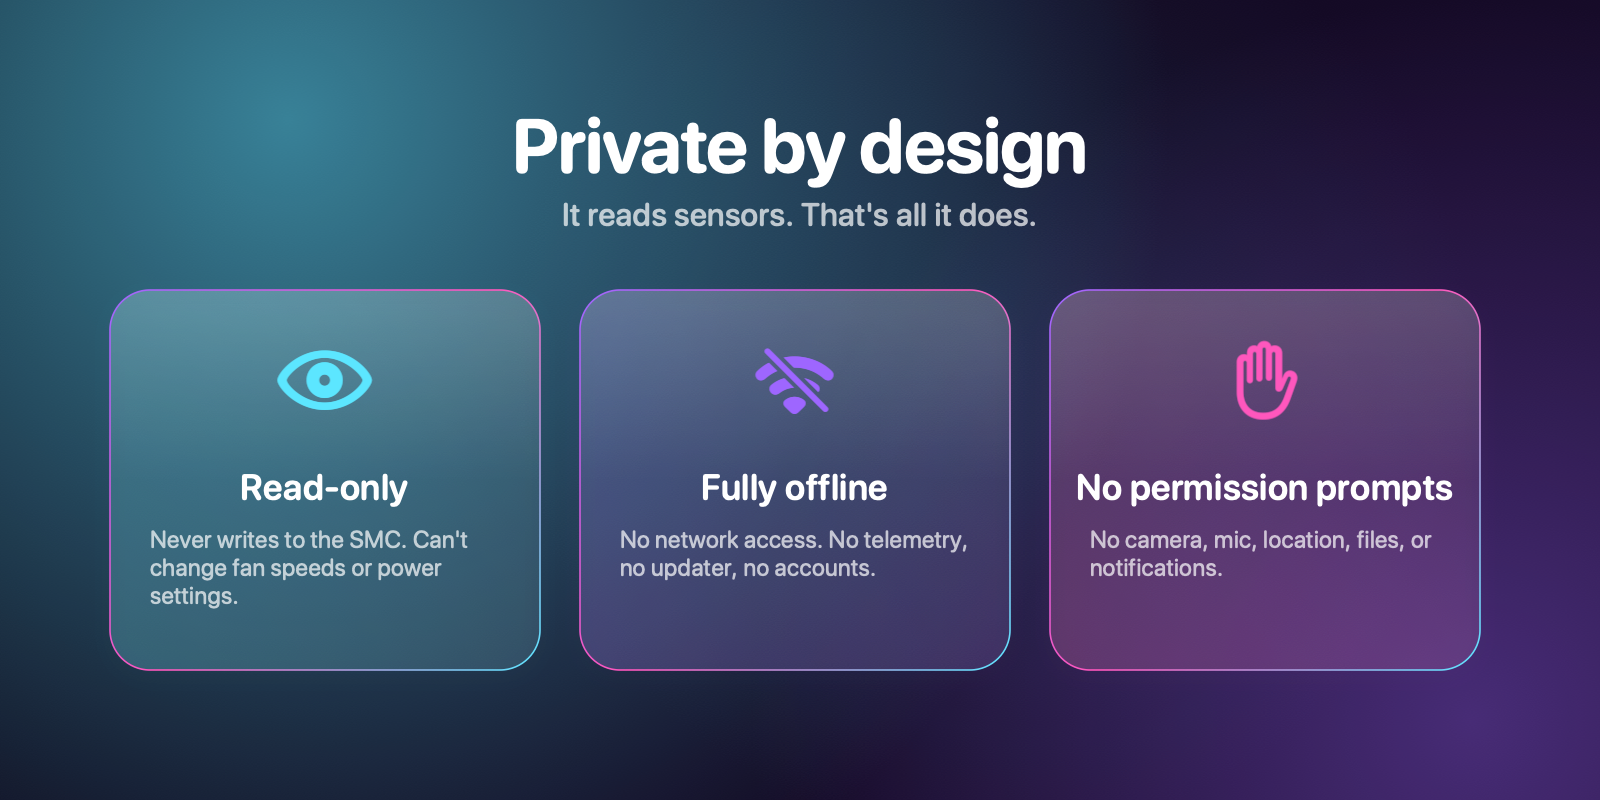
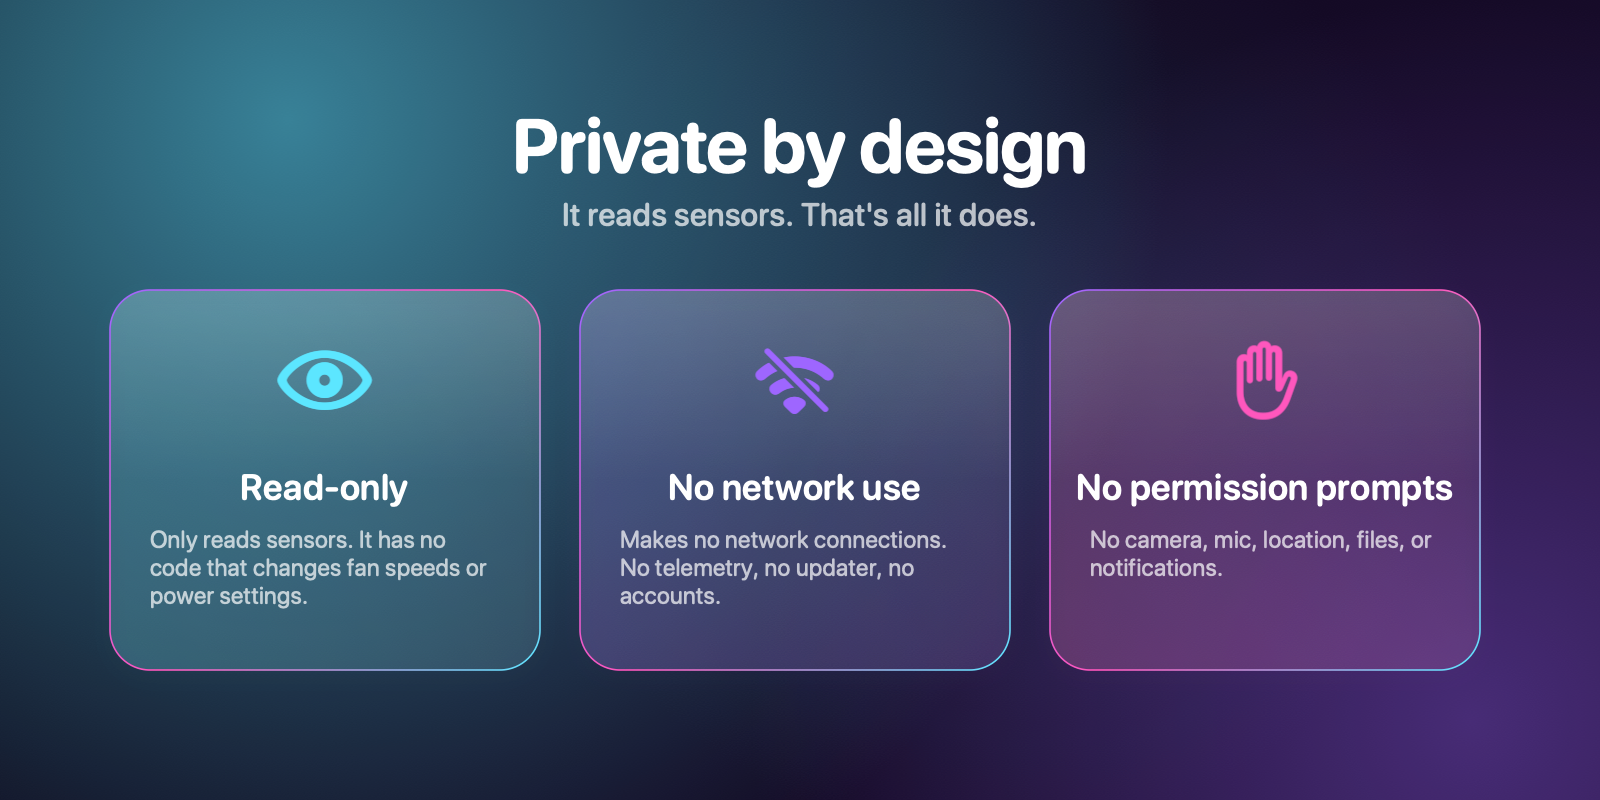
Correct install and privacy wording: Open Anyway steps, no-network-use claim

Changed region(s): [[0.0938, 0.6562, 0.3125, 0.7812], [0.375, 0.6562, 0.5938, 0.7812], [0.4062, 0.5938, 0.5938, 0.625]]

diff --git a/docs/index.html b/docs/index.html
@@ -50,11 +50,11 @@
         { "@type": "Question", "name": "Does HexTherm work on Apple Silicon (M1, M2, M3, M4) and Intel Macs?",
           "acceptedAnswer": { "@type": "Answer", "text": "Yes. It is a universal app and discovers your Mac's sensors at launch instead of using a fixed list. It was developed and tested on an M4 Max MacBook Pro; if a sensor looks wrong on your model, please open an issue." } },
         { "@type": "Question", "name": "Can HexTherm control my fan speed?",
-          "acceptedAnswer": { "@type": "Answer", "text": "No. HexTherm is read-only by design. It never writes to the System Management Controller, so it cannot change fan speeds or power settings." } },
+          "acceptedAnswer": { "@type": "Answer", "text": "No. HexTherm is read-only. It only reads sensors and contains no code that writes to the System Management Controller, so it does not change fan speeds or power settings." } },
         { "@type": "Question", "name": "Is HexTherm safe? Does it collect data?",
-          "acceptedAnswer": { "@type": "Answer", "text": "HexTherm has no network entitlement, so it cannot connect to the internet. There is no telemetry, updater or account. It requests no camera, microphone, location, files or notification permissions." } },
+          "acceptedAnswer": { "@type": "Answer", "text": "HexTherm makes no network connections and has no telemetry, updater or account. It is not sandboxed, so macOS would not block it from connecting; a free firewall such as LuLu or Little Snitch will show it never does. It requests no camera, microphone, location, files or notification permissions." } },
         { "@type": "Question", "name": "Why does macOS say HexTherm can't be opened?",
-          "acceptedAnswer": { "@type": "Answer", "text": "HexTherm is not yet notarized by Apple, so Gatekeeper warns on first launch. Right-click the app and choose Open, or run: xattr -dr com.apple.quarantine /Applications/HexTherm.app" } },
+          "acceptedAnswer": { "@type": "Answer", "text": "HexTherm is not yet notarized by Apple, so macOS blocks it the first time. Open it once, then go to System Settings, Privacy & Security, scroll to Security and click Open Anyway next to HexTherm. Or run: xattr -dr com.apple.quarantine /Applications/HexTherm.app" } },
         { "@type": "Question", "name": "Does HexTherm work on a fanless MacBook Air?",
           "acceptedAnswer": { "@type": "Answer", "text": "Yes. It detects that there are no fans and shows temperatures only." } },
         { "@type": "Question", "name": "Is HexTherm open source?",
@@ -131,7 +131,7 @@
       <div class="card"><img src="assets/feature-menubar.png" alt="Menu bar icon that changes colour from cyan to red as the Mac heats up" loading="lazy" width="1600" height="800"><div class="t"><h3>Lives in your menu bar</h3><p>A tiny icon and number that shifts from cyan to violet to magenta to red as your Mac heats up. Sits right beside the notch on MacBook Pro.</p></div></div>
       <div class="card"><img src="assets/feature-glass.png" alt="Liquid Glass panel showing CPU and GPU temperature and fan speeds" loading="lazy" width="1600" height="800"><div class="t"><h3>A Liquid Glass panel</h3><p>Click for CPU and GPU average and peak, live fan RPM and a one-line sensor summary, in a panel that matches macOS 26.</p></div></div>
       <div class="card"><img src="assets/feature-alerts.png" alt="Heat alert card dropping out of the menu bar icon" loading="lazy" width="1600" height="800"><div class="t"><h3>Alerts that drop from the icon</h3><p>When your Mac runs hot, a small card appears right under the icon. Once per event, never spammy, with one-tap snooze.</p></div></div>
-      <div class="card"><img src="assets/feature-private.png" alt="Read-only, fully offline, no permission prompts" loading="lazy" width="1600" height="800"><div class="t"><h3>Private by design</h3><p>Read-only sensor access, no network entitlement, no telemetry, no permission prompts. It reads temperatures and that's all.</p></div></div>
+      <div class="card"><img src="assets/feature-private.png" alt="Read-only, fully offline, no permission prompts" loading="lazy" width="1600" height="800"><div class="t"><h3>Private by design</h3><p>It only reads sensors. No network connections, no telemetry, no permission prompts. It reads temperatures and that's all.</p></div></div>
     </div>
     <p style="color:var(--muted);margin-top:22px">Also: °C/°F, adjustable refresh rate, your own warm / hot / critical thresholds, launch at login, an optional hover widget that hugs the notch, and graceful handling of fanless MacBook Air models.</p>
   </section>
@@ -141,7 +141,7 @@
     <ol class="steps">
       <li><a href="https://github.com/001Hex/HexTherm-Releases/releases/latest">Download the latest <code>HexTherm-x.y.z.dmg</code></a> and open it.</li>
       <li>Drag <strong>HexTherm</strong> onto <strong>Applications</strong>, then open it. A thermometer appears in your menu bar.</li>
-      <li>First launch: HexTherm isn't notarized by Apple yet, so macOS may warn. Right-click the app → <strong>Open</strong> → <strong>Open</strong>, or run:
+      <li>First launch: HexTherm isn't notarized by Apple yet, so macOS blocks it the first time. Open it once, then go to <strong>System Settings → Privacy &amp; Security</strong>, scroll to <strong>Security</strong> and click <strong>Open Anyway</strong> next to HexTherm. Or run one Terminal command:
         <pre>xattr -dr com.apple.quarantine /Applications/HexTherm.app</pre></li>
     </ol>
     <p style="color:var(--muted)">Prefer Homebrew? <code>brew install --cask 001hex/tap/hextherm</code></p>
@@ -150,9 +150,9 @@
   <section id="faq">
     <h2>Questions</h2>
     <details><summary>Does it work on M1, M2, M3, M4 and Intel Macs?</summary><p>Yes. It's a universal app and discovers your Mac's sensors at launch instead of relying on a fixed list. It was developed and tested on an M4 Max MacBook Pro; if a reading looks off on your model, please <a href="https://github.com/001Hex/HexTherm-Releases/issues">open an issue</a> with your Mac model.</p></details>
-    <details><summary>Can it control my fan speed?</summary><p>No. It's read-only by design. It never writes to the System Management Controller, so it can't change fan speeds or power settings.</p></details>
-    <details><summary>Is it safe? Does it collect any data?</summary><p>No data is collected. HexTherm has no network entitlement, so it can't connect to the internet at all. There's no telemetry, no updater and no account, and it asks for no camera, microphone, location, files or notification permissions.</p></details>
-    <details><summary>Why does macOS say it can't be opened?</summary><p>HexTherm isn't notarized by Apple yet (that requires a paid developer account), so Gatekeeper shows a warning on first launch. Right-click → Open, or run the <code>xattr</code> command above. You can verify your download against the SHA-256 on the release page.</p></details>
+    <details><summary>Can it control my fan speed?</summary><p>No. It's read-only: it only reads sensors and has no code that changes fan speeds or power settings.</p></details>
+    <details><summary>Is it safe? Does it collect any data?</summary><p>No data is collected. HexTherm makes no network connections and has no telemetry, no updater and no account. It isn't sandboxed, so macOS wouldn't stop it from connecting if it tried; a free firewall like LuLu or Little Snitch will confirm it never does. It asks for no camera, microphone, location, files or notification permissions.</p></details>
+    <details><summary>Why does macOS say it can't be opened?</summary><p>HexTherm isn't notarized by Apple yet (that requires a paid developer account), so macOS blocks it the first time. Use System Settings → Privacy &amp; Security → Open Anyway, or run the <code>xattr</code> command above. You can verify your download against the SHA-256 on the release page.</p></details>
     <details><summary>How is it different from iStat Menus, TG Pro or Macs Fan Control?</summary><p>Those are excellent and do more, including fan control and dozens of sensors. HexTherm deliberately does less: temperature, fan speed and heat warnings in one quiet menu bar item, free, offline and read-only.</p></details>
     <details><summary>How accurate are the temperatures?</summary><p>HexTherm shows what your Mac's System Management Controller reports, the same source other Mac monitors use. It filters out placeholder and non-temperature values, and shows average and peak per category, since different sensors sit in different places on the chip.</p></details>
     <details><summary>Does it work on a fanless MacBook Air?</summary><p>Yes. It detects there are no fans and shows temperatures only.</p></details>

diff --git a/README.md b/README.md
@@ -30,7 +30,7 @@
 | <img src="docs/assets/feature-menubar.png" width="420" alt="Menu bar icon that changes colour with temperature"> | **Lives in your menu bar.** A tiny icon and number that shifts from cyan to violet to magenta to red as your Mac heats up. Sits right beside the notch on MacBook Pro. |
 | <img src="docs/assets/feature-glass.png" width="420" alt="Liquid Glass panel with CPU, GPU and fan data"> | **A Liquid Glass panel.** Click for CPU and GPU average and peak, live fan RPM and a one-line sensor summary, styled to match macOS 26. |
 | <img src="docs/assets/feature-alerts.png" width="420" alt="Heat alert dropping out of the menu bar icon"> | **Alerts that drop from the icon.** A small glass card appears right under the icon when your Mac runs hot. Once per event, never spammy, with one-tap snooze. |
-| <img src="docs/assets/feature-private.png" width="420" alt="Read-only, offline, no permissions"> | **Private by design.** Read-only sensor access, no network entitlement, no telemetry, no permission prompts. |
+| <img src="docs/assets/feature-private.png" width="420" alt="Read-only, offline, no permissions"> | **Private by design.** It only reads sensors. It makes no network connections and has no telemetry, updater, accounts or permission prompts. |
 
 Also: °C / °F, adjustable refresh rate, your own warm / hot / critical thresholds, launch at login, an optional hover widget that hugs the notch, and graceful handling of fanless MacBook Air models.
 
@@ -40,7 +40,7 @@ Also: °C / °F, adjustable refresh rate, your own warm / hot / critical thresho
 
 1. [Download the latest `HexTherm-x.y.z.dmg`](https://github.com/001Hex/HexTherm-Releases/releases/latest) and open it.
 2. Drag **HexTherm** onto **Applications**, then open it. A thermometer icon appears in your menu bar.
-3. **First launch:** HexTherm isn't notarized by Apple yet, so macOS may say it can't be opened. Right-click the app → **Open** → **Open**, or run:
+3. **First launch:** HexTherm isn't notarized by Apple yet, so macOS blocks it the first time. Open it once, then go to **System Settings → Privacy & Security**, scroll to **Security**, and click **Open Anyway** next to HexTherm (confirm with your password or Touch ID). Or skip that with one Terminal command:
 
 ```bash
 xattr -dr com.apple.quarantine /Applications/HexTherm.app
@@ -62,8 +62,8 @@ shasum -a 256 ~/Downloads/HexTherm-1.0.0.dmg
 
 ## Privacy and security
 
-- **Read-only.** HexTherm only reads sensors from the System Management Controller. It never writes to it and cannot change fan speeds or power settings.
-- **Offline.** No network entitlement, no connections, no telemetry, no updater, no accounts.
+- **Read-only.** HexTherm only reads sensors from the System Management Controller. It contains no code that writes to it, so it doesn't change fan speeds or power settings.
+- **No network use.** HexTherm makes no network connections and has no telemetry, updater or accounts. It isn't sandboxed, so macOS wouldn't stop it if it tried; don't just take our word for it, a free firewall such as [LuLu](https://objective-see.org/products/lulu.html) or Little Snitch will show it never connects.
 - **No permission prompts.** No camera, microphone, location, contacts, files, or notifications access.
 - **Hardened Runtime** is on. App Sandbox is off, because macOS doesn't let sandboxed apps read the SMC; the same is true of other Mac sensor tools.
 
@@ -76,7 +76,7 @@ Yes. It's a universal app and discovers your Mac's sensors at launch instead of 
 
 <details><summary><b>Can it control my fan speed?</b></summary>
 
-No. It's read-only by design and never writes to the SMC.
+No. It's read-only: it only reads sensors and has no code that changes fan speeds or power settings.
 </details>
 
 <details><summary><b>How is it different from iStat Menus, TG Pro or Macs Fan Control?</b></summary>
